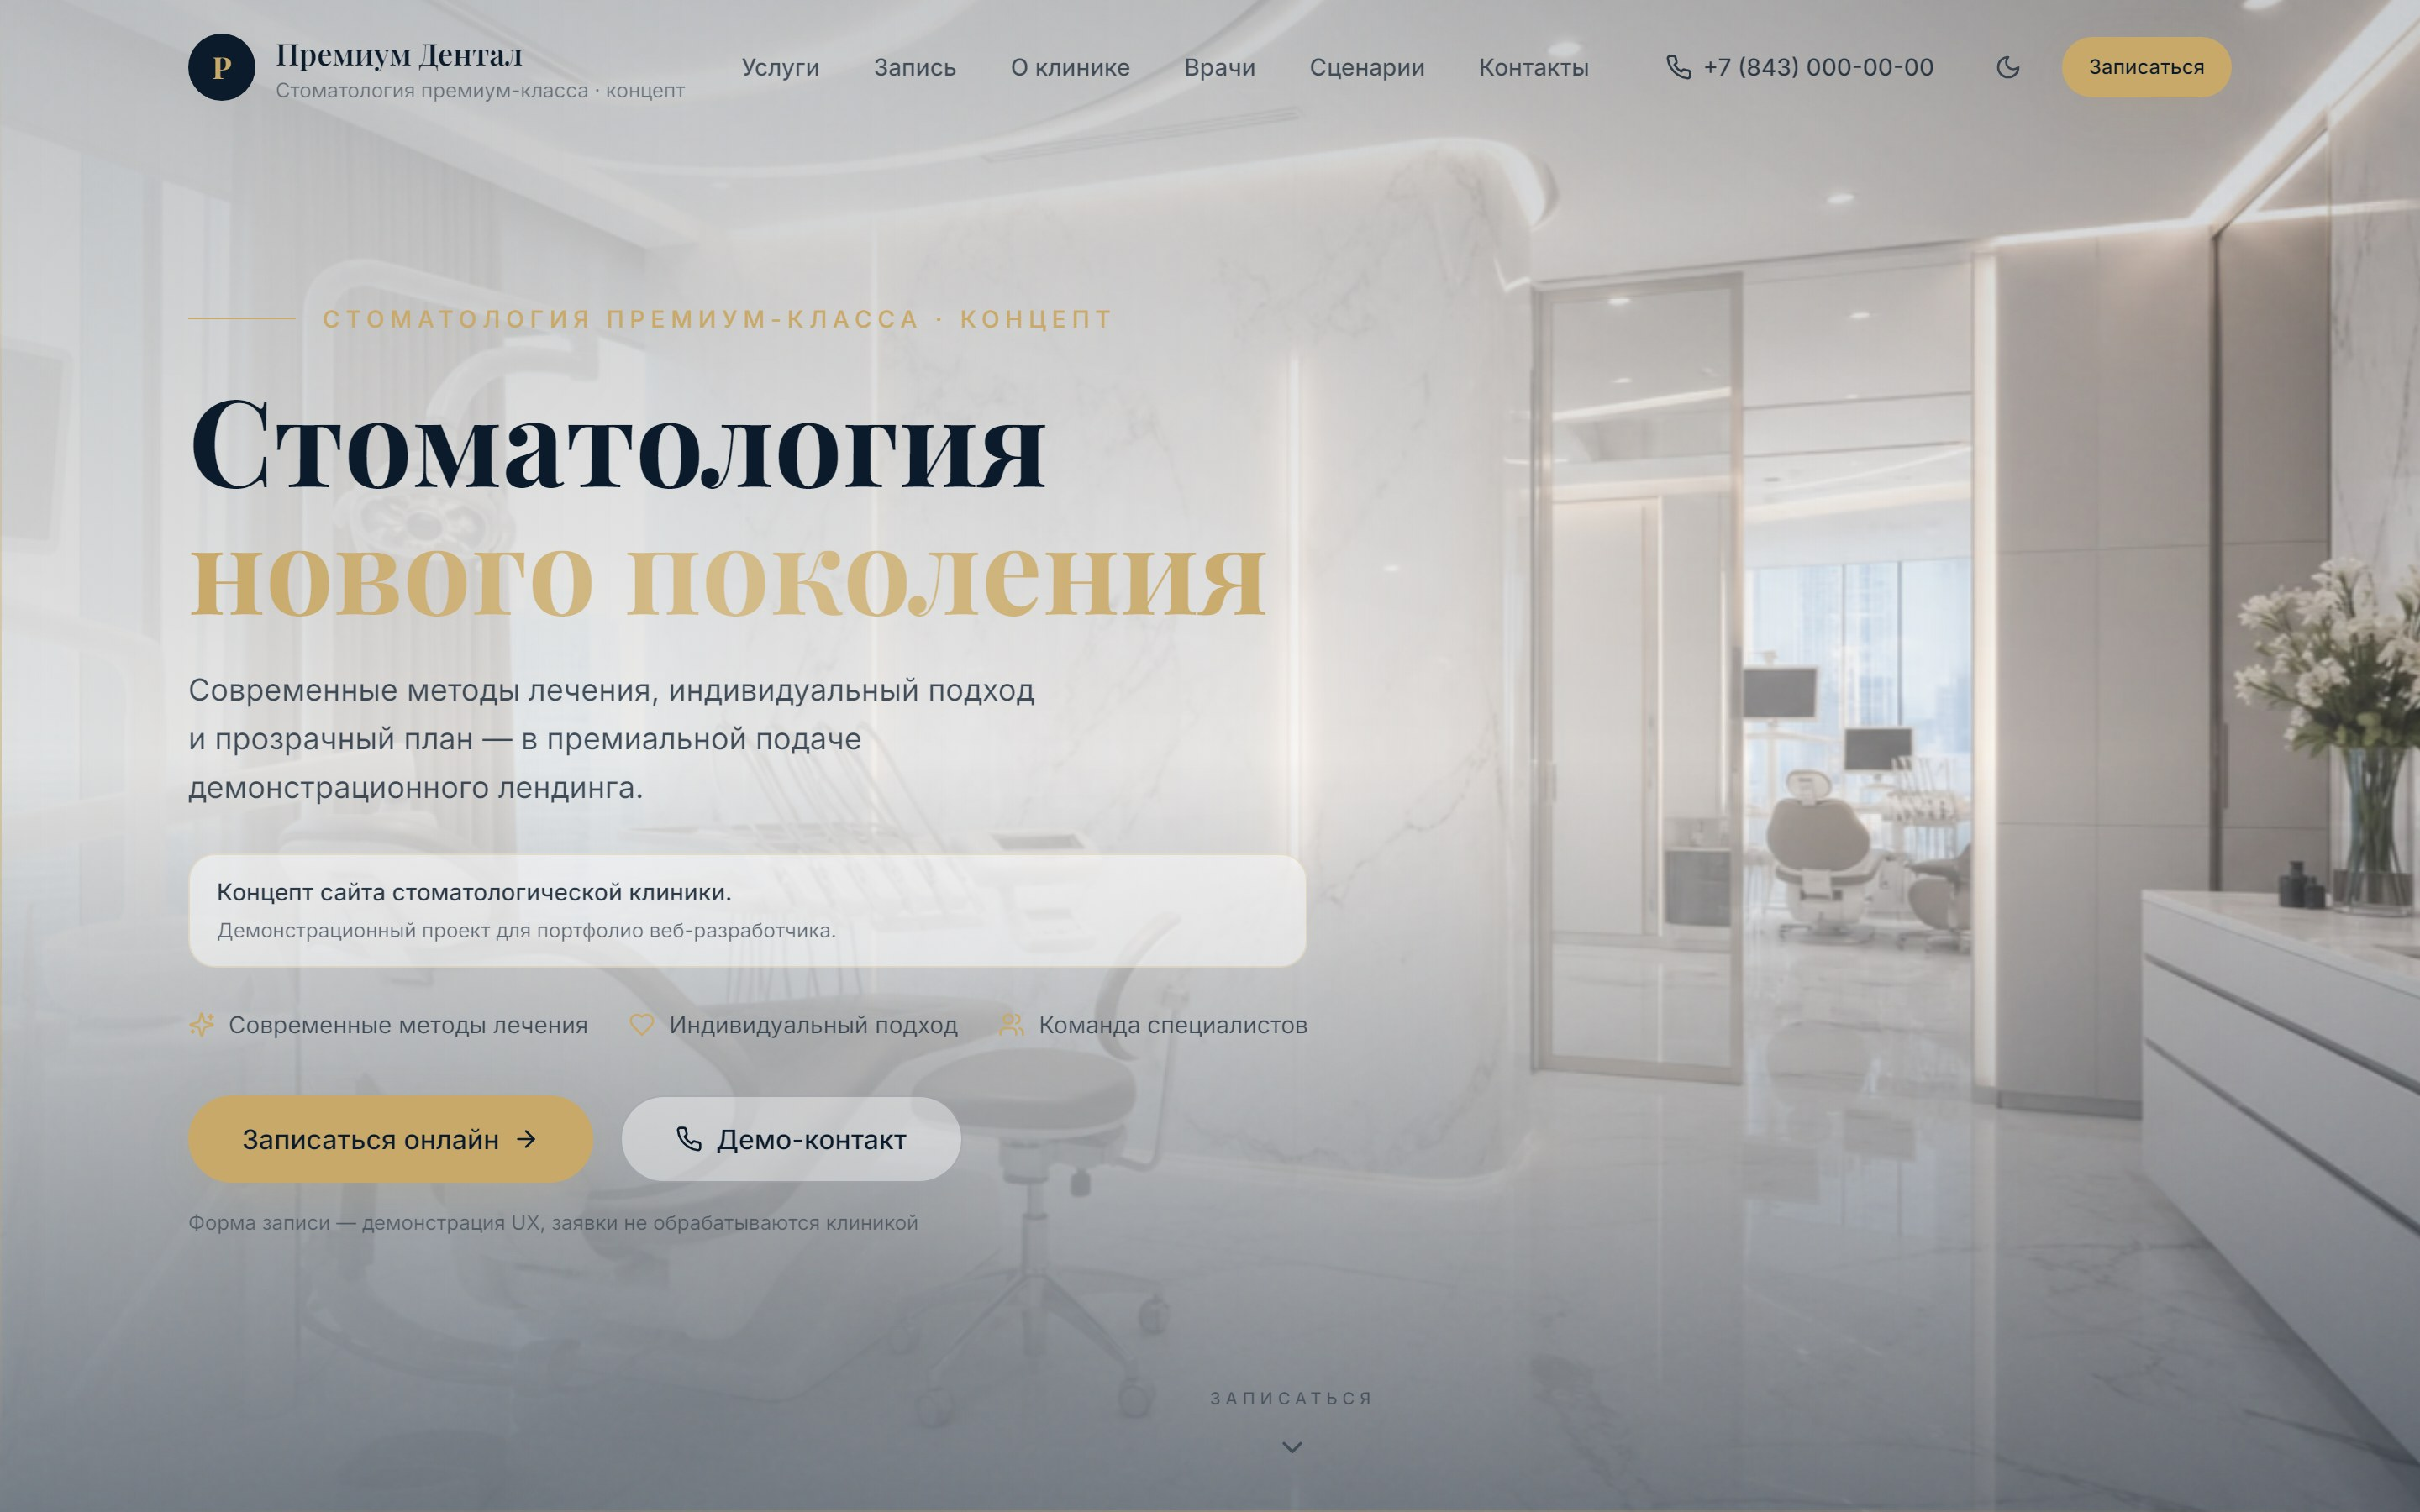
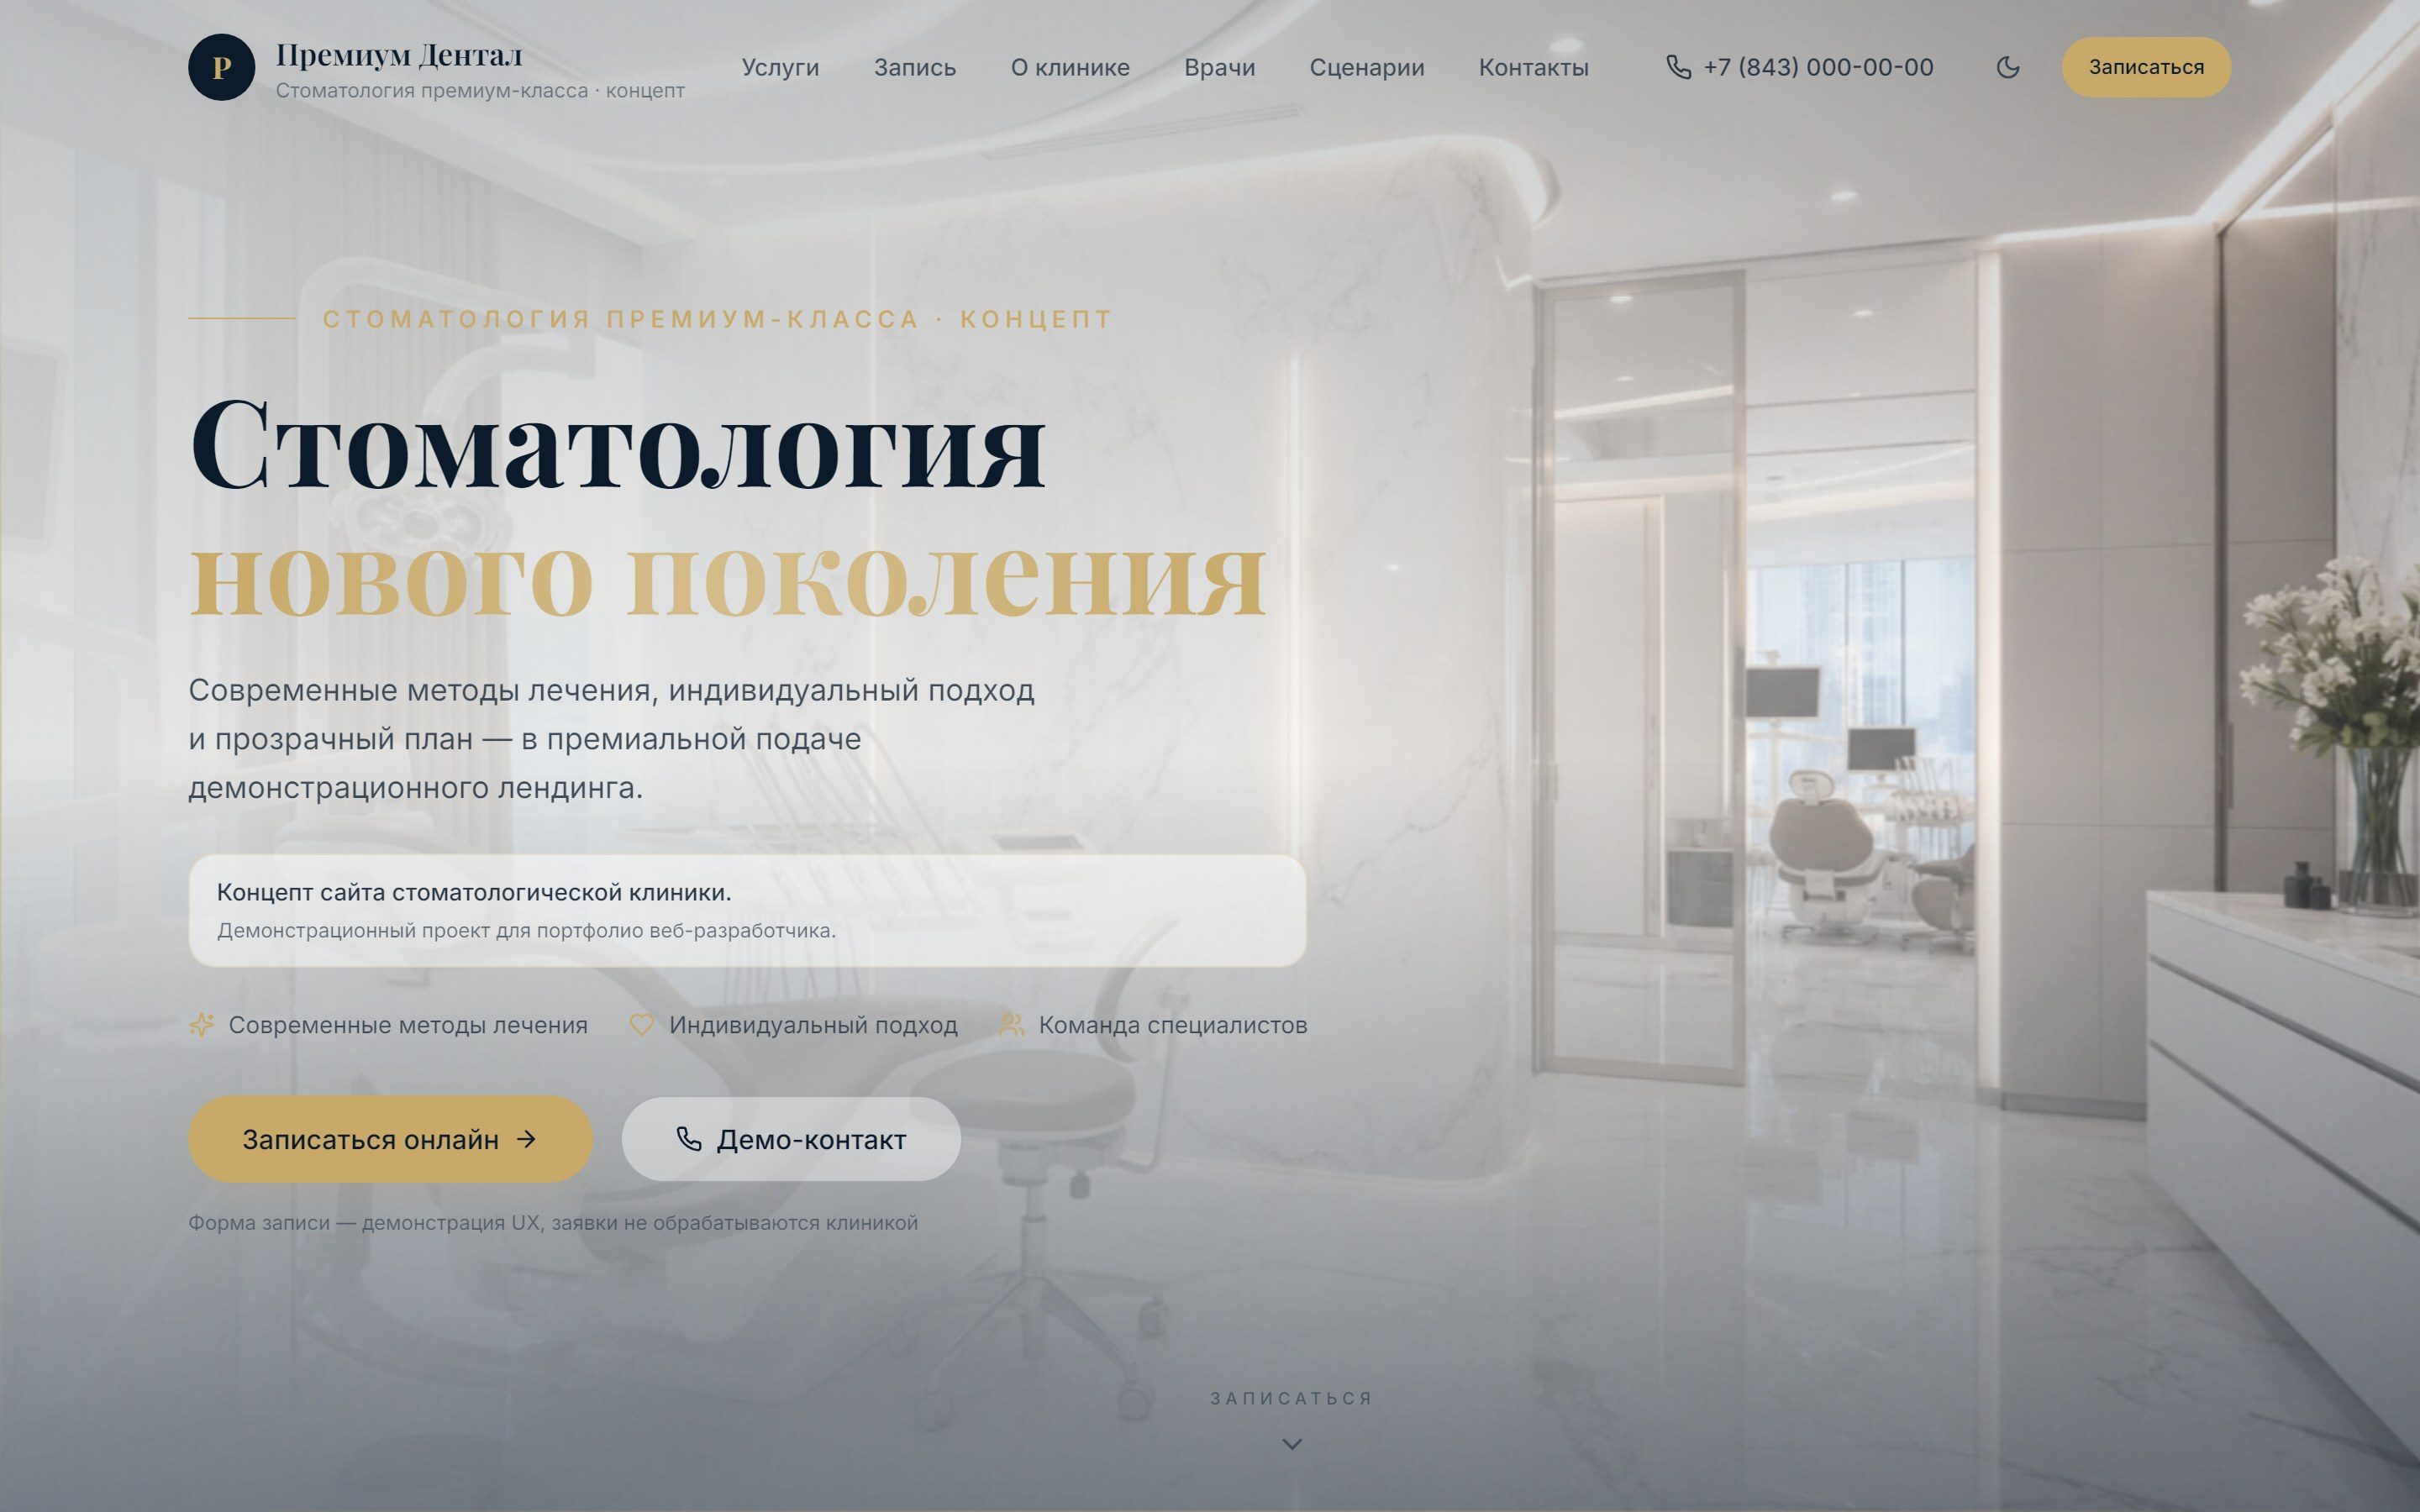
Fix Cases section screenshots to show full hero without crop

Changed region(s): [[0.9062, 0.1556, 1.0, 0.5911], [0.8125, 0.28, 0.8438, 0.6222], [0.9375, 0.1244, 0.9688, 0.1556]]

diff --git a/components/ProjectPreview.tsx b/components/ProjectPreview.tsx
@@ -2,38 +2,66 @@ import Image from "next/image";
 import { ProjectBadges } from "@/components/ProjectBadges";
 import type { PortfolioProject } from "@/lib/projects";
 
+/** cover — карточки портфолио; full — кейсы: весь скриншот по ширине без обрезки */
+export type ProjectPreviewFit = "cover" | "full";
+
 interface ProjectPreviewProps {
   project: PortfolioProject;
   className?: string;
-  fillHeight?: boolean;
+  imageFit?: ProjectPreviewFit;
 }
+
+const PREVIEW_WIDTH = 1440;
+const PREVIEW_HEIGHT = 900;
 
 export function ProjectPreview({
   project,
   className = "",
-  fillHeight = false,
+  imageFit = "cover",
 }: ProjectPreviewProps) {
+  if (imageFit === "full") {
+    return (
+      <a
+        href={project.href}
+        target="_blank"
+        rel="noopener noreferrer"
+        className={`group relative block overflow-hidden bg-zinc-950 ${className}`}
+        aria-label={`Открыть демо: ${project.title}`}
+      >
+        <div className="relative">
+          <Image
+            src={project.image}
+            alt={project.imageAlt}
+            width={PREVIEW_WIDTH}
+            height={PREVIEW_HEIGHT}
+            sizes="(max-width: 1024px) 100vw, 50vw"
+            className="h-auto w-full transition-transform duration-700 ease-out group-hover:scale-[1.01]"
+          />
+          <div
+            className="pointer-events-none absolute inset-x-0 bottom-0 h-24 bg-gradient-to-t from-zinc-950/90 to-transparent"
+            aria-hidden
+          />
+          <ProjectBadges />
+        </div>
+      </a>
+    );
+  }
+
   return (
     <a
       href={project.href}
       target="_blank"
       rel="noopener noreferrer"
-      className={`group relative block overflow-hidden ${fillHeight ? "h-full min-h-[240px] lg:min-h-0" : "rounded-xl border border-zinc-800"} ${className}`}
+      className={`group relative block overflow-hidden bg-zinc-950 ${className}`}
       aria-label={`Открыть демо: ${project.title}`}
     >
-      <div
-        className={`relative w-full overflow-hidden ${
-          fillHeight
-            ? "aspect-[16/10] min-h-[240px] lg:absolute lg:inset-0 lg:aspect-auto lg:min-h-0"
-            : "aspect-[16/10] min-h-[220px]"
-        }`}
-      >
+      <div className="relative aspect-[16/10] w-full min-h-[200px] overflow-hidden sm:min-h-[240px]">
         <Image
           src={project.image}
           alt={project.imageAlt}
           fill
           sizes="(max-width: 1024px) 100vw, 50vw"
-          className="object-cover object-top transition-transform duration-700 ease-out group-hover:scale-[1.04]"
+          className="origin-top object-cover object-[center_top] transition-transform duration-700 ease-out group-hover:scale-[1.04]"
         />
         <div
           className="absolute inset-0 bg-gradient-to-t from-zinc-950 via-zinc-950/30 to-transparent"

diff --git a/components/Cases.tsx b/components/Cases.tsx
@@ -78,10 +78,8 @@ export function Cases() {
                 className="overflow-hidden rounded-2xl border border-subtle bg-surface-card"
               >
                 <div className="grid lg:grid-cols-2 lg:items-stretch">
-                  <div
-                    className={`relative lg:min-h-[420px] ${index % 2 === 1 ? "lg:order-2" : ""}`}
-                  >
-                    <ProjectPreview project={project} fillHeight />
+                  <div className={index % 2 === 1 ? "lg:order-2" : ""}>
+                    <ProjectPreview project={project} imageFit="full" />
                   </div>
 
                   <div

diff --git a/components/ProjectCard.tsx b/components/ProjectCard.tsx
@@ -22,7 +22,7 @@ export function ProjectCard({ project }: ProjectCardProps) {
           alt={project.imageAlt}
           fill
           sizes="(max-width: 768px) 100vw, 50vw"
-          className="object-cover object-top transition-transform duration-700 ease-out group-hover:scale-[1.04]"
+          className="object-cover object-[center_top] transition-transform duration-700 ease-out group-hover:scale-[1.04] group-hover:origin-top"
           priority={project.slug === "dental" || project.slug === "online-school"}
         />
         <div